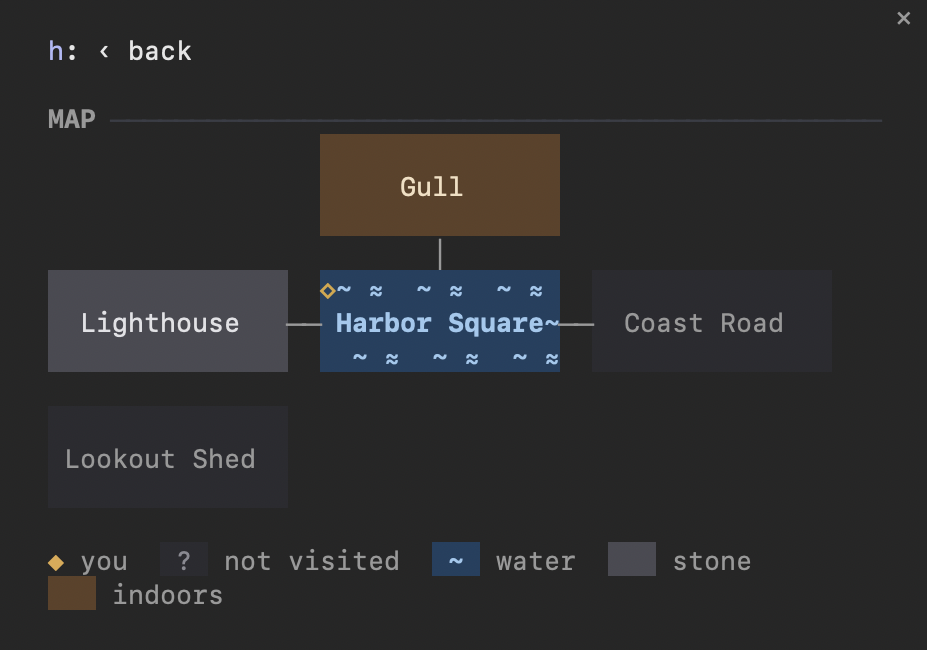
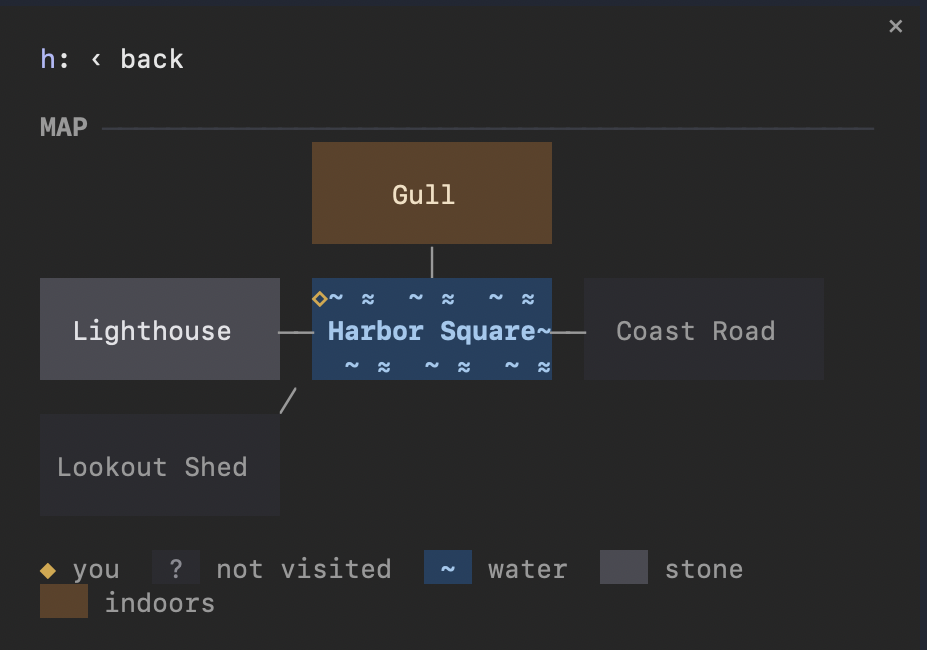
Guide page: getting started, cost figures and test counts removed, retaken screenshots
Applies the reviewed guide edits (A1-A3, C1-C7): a Getting started section,
the three-themes line, the ooc: note, section 6 rewritten without figures,
qualified checker and promotion statements, updated section 7 table rows,
no test counts, and the note-filter rule. Swaps in the retaken turn,
commands and map pictures, and removes the duplicate dice-tray figure.

Claude-Session: https://claude.ai/code/session_01B7P7trRaJsaMiABHV3mZGB

diff --git a/docs/index.html b/docs/index.html
@@ -65,6 +65,8 @@
     font: 0.86em/1.4 ui-monospace, SFMono-Regular, Menlo, Consolas, monospace;
     background: var(--code-bg); padding: 1px 5px; border-radius: 4px; overflow-wrap: anywhere;
   }
+  pre { background: var(--code-bg); border-radius: 6px; padding: 12px 14px; margin: 0 0 16px; overflow-x: auto; }
+  pre code { background: none; padding: 0; font-size: 0.86em; overflow-wrap: normal; }
   .table-wrap { overflow-x: auto; margin: 4px 0 24px; }
   table { border-collapse: collapse; width: 100%; font-size: 15px; line-height: 1.5; }
   th, td { text-align: left; vertical-align: top; padding: 9px 12px; border-bottom: 1px solid var(--rule); }
@@ -106,6 +108,16 @@
 <figcaption>The Dark Lighthouse in Claude Code. Story on the left, with Pell the innkeeper's lines beside his colored bar; the margin on the right, with the room's picture, health, lamp oil, the fleet's countdown and the ways out. Claude Code's own prompt is still at the bottom.</figcaption>
 </figure>
 
+<h2>Getting started</h2>
+<p>You need a Claude subscription, Claude Code (a release with plugin interface support; built and tested on 2.1.310), and Python 3. Nothing else is installed: the rules script uses only Python's standard library, and Claude Code runs the mod itself.</p>
+<pre><code>git clone https://github.com/LiminallyYours/CodeRPG
+cd CodeRPG
+claude --plugin-dir ./mod</code></pre>
+<p>The first time, Claude Code asks whether you trust the folder, and lists what the project's settings allow without asking: running the one rules script (<code>python3 rules/rpg.py &hellip;</code>), reading the game, rules and save folders, and writing only where proposals and new worlds are drafted. Nothing else is pre-approved.</p>
+<p>Then type <code>/newgame</code> to start The Dark Lighthouse (<code>/game</code> lists the worlds, <code>/game flooded_station</code> switches), and <code>/guide</code> at any time for the controls. Play by typing what you do.</p>
+<p>The side panel docks by itself when the terminal is at least 144 columns wide (110 once you've opened it); in a narrower window, <code>/sheet</code> opens it. It was built in macOS Terminal.app; any terminal Claude Code supports should work. Plain <code>claude</code> without <code>--plugin-dir ./mod</code> also plays, just without the game's look.</p>
+<p>The project explores three things: an AI managing a game while it's played (sections 3 and 4), an AI expanding the game as it goes (sections 5 and 6), and Claude Code as both the agent harness and the player's screen (sections 1 and 7). Section 2 is how it plays, and section 8 what carries over.</p>
+
 <h2><span class="num">1</span>The idea</h2>
 <p>I wanted a game that an AI generates and manages on the fly, and that still plays fair. Not a chatbot improvising a story, but a real game: rules, a save file, consequences, and an AI that fills in what the author didn't write without being able to fudge what the author did.</p>
 <p>Claude Code was already the harness I needed. It runs a model in a loop with tools, subagents, skills and hooks, and its new mod support lets a plugin redraw the interface. So there was nothing to build and nothing to host: the whole game runs on a Claude subscription, with Python 3 from the standard library and no other dependencies.</p>
@@ -131,7 +143,7 @@
   <li><strong>Combat.</strong> One exchange per attack: you swing, the foe swings back if still standing. Wounds persist. Fleeing is an Agility check, and failing it costs a free hit.</li>
   <li><strong>Carrying.</strong> Items have weight; you carry 8 plus twice your Might (6 plus twice your Grit on the station).</li>
   <li><strong>The clock.</strong> Every move is a tick. When it runs out, the quest's deadline flag is set and the ending follows.</li>
-  <li><strong><code>ooc:</code></strong> in front of a message talks to Claude as a developer instead of the game master.</li>
+  <li><strong><code>ooc:</code></strong> in front of a message talks to Claude as a developer instead of the game master: the game's screen steps aside so you see its work, and it can change the game you're playing. <code>DEVELOPING.md</code> in the repository is where to start, and experiments belong in a copy of the folder, not your own save.</li>
   <li><strong>Instant commands.</strong> <code>/inventory</code>, <code>/map</code>, <code>/sheet</code>, <code>/budget</code>, <code>/sound</code>, <code>/guide</code>: no Claude turn, no cost.</li>
 </ul>
 <p>The two shipped worlds are deliberately different, to prove the kit doesn't care:</p>
@@ -226,12 +238,12 @@
 </ol>
 <p>One real turn, both sides. The player typed "I draw the cutlass, plant my feet in the road and roar at the troll to get out of my way." This is what they saw:</p>
 <figure class="shot">
-<a href="images/turn-player.png"><img src="images/turn-player.png" alt="The turn as the player saw it" width="1480" height="782" loading="lazy"></a>
+<a href="images/turn-player.png"><img src="images/turn-player.png" alt="The turn as the player saw it" width="1490" height="770" loading="lazy"></a>
 </figure>
 <p>And this is every rules command the game master ran during that turn, with what each printed:</p>
 <figure class="shot">
-<a href="images/turn-commands.png"><img src="images/turn-commands.png" alt="The rules commands behind the turn" width="1600" height="713" loading="lazy"></a>
-<figcaption>The d20 decided that the troll backed off (14 + 2 = 16 against DC 14), and a flag, not the prose, records it. The REFUSED line is the referee turning down a request the game master made in the wrong order: it asked for Grukk's brief after setting the flag that sent him away.</figcaption>
+<a href="images/turn-commands.png"><img src="images/turn-commands.png" alt="The rules commands behind the turn" width="1600" height="1028" loading="lazy"></a>
+<figcaption>Grukk's file tells the game master what intimidating him takes, in a section only it can see: <code>check might 14</code>, and on success <code>flag set grukk_cowed</code>. The d20 decided (18 + 2 = 20 against DC 14), and a flag, not the prose, records that he backed off. His line came from his own agent, whose brief leaves the hidden rules out.</figcaption>
 </figure>
 
 <h2><span class="num">4</span>Why it can't cheat</h2>
@@ -243,7 +255,7 @@
   <li><strong>Flags are the story's facts.</strong> Branching lives in the content as conditions: <code>exits: down: trolls_hollow (if grukk_friend or grukk_cowed)</code>, <code>## If grukk_defeated</code>. The game master sets a flag only when a content file says to. Defeating someone sets <code>&lt;id&gt;_defeated</code> automatically; <code>has_&lt;item&gt;</code> and <code>met_&lt;character&gt;</code> are computed.</li>
   <li><strong>Characters are contained.</strong> An NPC agent sees only its brief: its file minus the <code>## GM only</code> section, plus the <code>## If</code> sections that hold now and its memory of the player (at most 6 short lines). It has no tools and doesn't load <code>CLAUDE.md</code>. It proposes; the game master checks the proposal against the hidden rules and applies it with the script, or doesn't. If an NPC contradicts the save, the save wins.</li>
   <li><strong>Numbers never come from a model.</strong> Anything a subagent invents gets its stats from fixed tiers: a <code>weapon</code> does 1d6, a <code>tough</code> foe has 12 HP, prices run 1 to 6 coins.</li>
-  <li><strong>A checker refuses broken worlds.</strong> <code>rpg.py validate</code> checks every reference, that every flag a condition uses can actually be set by something, that every command written into content is real, and that every curse has a cure. A <code>--kit-complete</code> mode lists what a full world needs (5 to 8 reachable rooms, agent characters, a maker, a build spot, two ways through the quest, a curse, a side scene), and worlds the worldsmith forges must pass it before they're installed.</li>
+  <li><strong>A checker refuses broken worlds.</strong> <code>rpg.py validate</code> checks every reference, that every flag a condition uses can actually be set by something, that every command written into content is real, and that every curse has a cure somewhere in the world (a rough check: it looks for the cure's flag in the world's other files). A <code>--kit-complete</code> mode lists what a full world needs (5 to 8 reachable rooms, agent characters, a maker, a build spot, two ways through the quest, a curse, a side scene), and worlds the worldsmith forges must pass it before they're installed.</li>
 </ul>
 
 <h2><span class="num">5</span>A world that changes</h2>
@@ -262,13 +274,13 @@
   <li><strong>Extras:</strong> the dockhand the story only mentioned becomes a minor person with a name.</li>
   <li><strong>Rooms:</strong> a free direction off any room can grow a new place, onto a free map square, at most 2 generated rooms deep.</li>
   <li><strong>Items and side quests</strong>, with stats from tiers. A side quest may touch only its own <code>side_</code> flags, so it can't shortcut the main story.</li>
-  <li><strong>World turns:</strong> every 5 moves (normal preset) the agent spreads rumors and moves generated people. Major characters act on their <strong>plans</strong>: Ysolde walks down to the quay or bars her door; Grukk goes foraging and rolls a boulder over the path. Close by, you notice; far off, you hear it as a rumor.</li>
-  <li>A run allows 16 generated things in all (normal preset).</li>
+  <li><strong>World turns:</strong> every few moves the agent spreads rumors and moves generated people. Major characters act on their <strong>plans</strong>: Ysolde walks down to the quay or bars her door; Grukk goes foraging and rolls a boulder over the path. Close by, you notice; far off, you hear it as a rumor.</li>
+  <li>Each run has a cap on how many things can be generated, set by the owner's preset.</li>
 </ul>
 <h3>What the player grows</h3>
 <ul>
   <li><strong>Makers and builders.</strong> Describe an order to Morwen the net-mender or Bucket the scrap drone; the agent shapes it within their trade, the tier sets its stats, you pay, it's yours. A builder at a build spot builds a place you describe; it joins the map 3 moves later and a rumor spreads so people start using it.</li>
-  <li><strong>Promotion.</strong> A generated person you talk to 3 times is promoted to their own agent with their own memory of you, for this run and later ones. The journal marks them &#9733;.</li>
+  <li><strong>Promotion.</strong> A generated person you keep talking to (3 times, on the default setting) is promoted to their own agent with their own memory of you, for this run and later ones. The journal marks them &#9733;.</li>
   <li><strong>Side scenes.</strong> Two agent characters in the same place can play a short scene with each other (Grukk begging Ysolde to let him hold the lens) if you take it up. It sets no flags.</li>
   <li><strong>The library.</strong> Everything generated or made (side quests excepted) outlives the run. A new game brings back the places you built and the people you befriended, each remembering one line about you, and the world agent may reuse a fitting old entry instead of inventing one.</li>
   <li><strong>New worlds.</strong> <code>/newworld &lt;a sentence&gt;</code> spawns the Opus worldsmith in the background while you keep playing. It writes a complete game folder, runs the checker on it until it passes, and you hear when it's ready. If a world is interrupted partway, <code>/newworld</code> offers to finish it, start a new one instead, or throw it away. A <code>PreToolUse</code> hook lets it write only inside its draft and run only the checker, denying everything else silently so no permission prompt ever lands in the player's game.</li>
@@ -282,34 +294,10 @@
 </figure>
 
 <h2><span class="num">6</span>What it costs</h2>
-<p>A living world is extra model calls, and on a subscription those are a shared budget. So playing the game as written is free: every game master turn, every rules command, and the authored characters speaking through their agents. Only the extras have a price, and the price is an in-game resource: lamp oil in the Lighthouse, power on the station. It sits in the status band and the pane, warns when low, and refills each time Claude Code is opened or resumed in the folder. When it's empty, the extras stop and the game as written plays on.</p>
-<div class="table-wrap">
-<table>
-  <thead><tr><th>Extra</th><th>Points</th></tr></thead>
-  <tbody>
-    <tr><td>Generating something new (person, place, item, side quest)</td><td>2</td></tr>
-    <tr><td>A world turn</td><td>2</td></tr>
-    <tr><td>Something made to order</td><td>2</td></tr>
-    <tr><td>Something built to order</td><td>3</td></tr>
-    <tr><td>Bringing something back from the library</td><td>1</td></tr>
-    <tr><td>A generated person getting their own agent</td><td>2</td></tr>
-    <tr><td>A side scene</td><td>2</td></tr>
-    <tr><td>A whole new world</td><td>Not on the meter: it costs more than a whole meter, so only the owner's switch and the player's confirmation gate it</td></tr>
-  </tbody>
-</table>
-</div>
-<p>One point is roughly one extra round of game master work. The script charges when it writes the brief, after every check that could refuse, so a refused extra costs nothing. The owner picks a preset per game and can override any switch with <code>tools/settings.py</code>, which the game master can't run:</p>
-<div class="table-wrap">
-<table>
-  <thead><tr><th>Preset</th><th>Meter</th><th>Character agents</th><th>World turns</th><th>Generated things per run</th></tr></thead>
-  <tbody>
-    <tr><td>thrifty</td><td>10</td><td>Off; the game master voices everyone</td><td>Off</td><td>6, extras, rooms and items only</td></tr>
-    <tr><td>normal</td><td>30</td><td>On</td><td>Every 5 moves, with plans</td><td>16</td></tr>
-    <tr><td>rich</td><td>60</td><td>On</td><td>Every 4 moves, with plans</td><td>24</td></tr>
-  </tbody>
-</table>
-</div>
-<p>The prices are estimates, so <code>/budget</code> also shows what the session really used: tokens per play turn, weighted as the API prices them, split by the storyteller, the characters, the world agent and the worldsmith, with <code>ooc:</code> development turns kept separate. It also shows how far the session moved the subscription's 5-hour and weekly usage limits, and keeps the last 10 sessions so a change can be compared before and after. That's the figure for checking a price, or a speed change, against reality.</p>
+<p>A living world is extra model calls, and on a subscription those come out of a shared budget. So the game as written costs nothing from the game's own budget: every game master turn, every rules command, and the authored characters speaking through their agents. Only the extras have a price, and the price is paid in an in-game resource: lamp oil in the Lighthouse, power on the station. It sits in the status band and the side panel, warns when low, and refills each time Claude Code is opened or resumed in the folder. When it's empty, the extras stop and the game as written plays on.</p>
+<p>Each kind of extra has its own price: generating a person, place, item or side quest; a world turn; something made or built to order; bringing something back from the library; giving a generated person their own agent; a side scene. The script charges when it writes the agent's brief, after every check that could refuse, so a refused extra costs nothing. A whole new world is too expensive for the meter, so it isn't on it: the owner's switch and the player's confirmation gate it instead.</p>
+<p>The owner picks a preset per game, from thrifty (the game master voices everyone, the world doesn't move on its own, little is generated) to rich, and can override any switch with <code>tools/settings.py</code>, which the game master can't run.</p>
+<p>The prices are estimates, so <code>/budget</code> also shows what the session really used: tokens per play turn, weighted as the API prices them, split between the storyteller, the characters, the world agent and the worldsmith, with <code>ooc:</code> development turns kept separate. It also shows how far the session moved the subscription's usage limits, and keeps recent sessions so a change can be compared before and after. That's what a price, or a speed change, is checked against.</p>
 
 <h2><span class="num">7</span>The skin</h2>
 <p>The mod is a Claude Code plugin of TypeScript hooks that Claude Code runs itself, so there's nothing to install. Each hook steps in where Claude Code is about to draw something (a reply, a tool call, the spinner, the prompt hint) and draws the game's version instead, or nothing. It only ever reads: the save, the referee's printed output, and its own per-session store. Start a message with <code>ooc:</code> and it stands aside; Claude Code looks like itself again.</p>
@@ -318,18 +306,14 @@
   <thead><tr><th>Claude Code shows</th><th>In play it becomes</th></tr></thead>
   <tbody>
     <tr><td>Claude's reply</td><td>The story: plain prose, 72 columns, centered beside the pane, revealed a paragraph at a time; speakers set beside a keyline in their color under their name; a thin rule with the place name on arrival; a title card at the start and an ending card at the finish</td></tr>
-    <tr><td>Tool calls, file reads, agent spawns</td><td>Hidden, except what the referee reports as rolls, encounters and new things, one line each in a dice tray: <code>&#127922; Might check: d20 16 +1 = 17 vs DC 14 SUCCESS</code></td></tr>
-    <tr><td>Spinner and turn timer</td><td>A waiting line in the game's voice, naming the stage of the turn ("Grukk considers your words"), with a chime; no timer</td></tr>
+    <tr><td>Tool calls, file reads, agent spawns</td><td>Hidden, except what the referee reports as rolls, encounters and new things, one line each in a dice tray, as in the turn in section 3: <code>&#127922; Might check: d20 18 +2 = 20 vs DC 14 SUCCESS</code></td></tr>
+    <tr><td>Spinner and turn timer</td><td>A waiting line in the game's voice, naming the stage of the turn ("Grukk considers your words"), with a chime; no timer or token count. Beside the side pane it sits in the status band</td></tr>
     <tr><td>Your message</td><td>Dim, after a quiet <code>&rsaquo;</code></td></tr>
-    <tr><td>Prompt hint and mode labels</td><td>The game's hint; labels hidden</td></tr>
+    <tr><td>Prompt hint and mode labels</td><td>The game's hint, and the mode labels on the right hidden. The permission-mode label in front of the hint ("auto mode on") stays: no mod can hide it</td></tr>
     <tr><td>Nothing</td><td>A status band, a side pane, instant commands, sound</td></tr>
   </tbody>
 </table>
 </div>
-<figure class="shot">
-<a href="images/dice-tray.png"><img src="images/dice-tray.png" alt="A turn with the dice tray line above the story" width="1490" height="770" loading="lazy"></a>
-<figcaption>The dice tray: the roll shows as one line above the story, and the change line sits under it.</figcaption>
-</figure>
 <p>The rest of what it adds:</p>
 <ul>
   <li><strong>The change line.</strong> Under any turn that changed anything, one dim line: <code>&#10023; &minus;2 &#9829; &middot; +5 coins &middot; gained Brass Lens &middot; &#10003; objective</code>. It's built from the save as the turn found it and left it, not from the prose, so it's the record you can trust.</li>
@@ -339,10 +323,10 @@
   <li><strong>Animation</strong> on the terminal's frame clock: the title card types itself out, dice tumble, health bars drain and flash, damage rises and fades, water ripples on the map, the accent color shifts with the time of day.</li>
   <li><strong>Curses on screen.</strong> Your message is redrawn as it came out (reversed, mirrored, cut short, or with a phrase tacked on) and the cast reacts to those words; the game master still knows what you meant.</li>
   <li><strong>A clean start.</strong> <code>/newgame</code> and a game switch run <code>/clear</code> first, so each game starts lean. The save holds everything that matters.</li>
-  <li><strong>Keeping the game master's notes off the page.</strong> Models like to narrate their own work: "Settling in beside Old Hob now." The mod holds each turn's text until the turn ends, shows only the narration, and strips stray progress notes from it with a set of patterns. Every new shape seen in play becomes a test, alongside story lines that must survive the filter.</li>
+  <li><strong>Keeping the game master's notes off the page.</strong> Models like to narrate their own work: "Settling in beside Old Hob now." The mod holds each turn's text until the turn ends, shows only the narration, and strips stray progress notes from it with a set of patterns, plus a rule for one structural case: a short note written just before the game master records what happened. Every new shape seen in play becomes a test, alongside story lines that must survive the filter.</li>
 </ul>
 <p>What a mod can't do today, for anyone building one: restyle the prompt's <code>&#10095;</code>, bind Esc, or hide the permission-mode label in front of the hint; submit a prompt on the player's behalf (pane buttons fill the box, the player presses Enter); keep story styling across a resumed session; or stream narration mid-turn (text is held until the turn ends so the game master's working notes can't leak, then revealed a paragraph at a time).</p>
-<p>Testing runs at two levels. One script runs 100 mod tests, 67 rules-engine tests and the content checker. Above that, <code>tools/play.py</code> drives a real Claude Code session in a simulated terminal: it types moves on a schedule, captures every frame the terminal draws, and searches them for anything that must never show, such as <code>rpg.py</code> leaking into the story. It runs in a scratch copy of the project, so test turns never touch a real save.</p>
+<p>Testing runs at two levels. One script runs the mod's tests, the rules engine's tests and the content checker. Above that, <code>tools/play.py</code> drives a real Claude Code session in a simulated terminal: it types moves on a schedule, captures every frame the terminal draws, and searches them for anything that must never show, such as <code>rpg.py</code> leaking into the story. It runs in a scratch copy of the project, so test turns never touch a real save.</p>
 
 <h2><span class="num">8</span>What carries over</h2>
 <p>The game is deliberately small; the framework is the point. These are the practices it settled, and they don't depend on the genre.</p>
